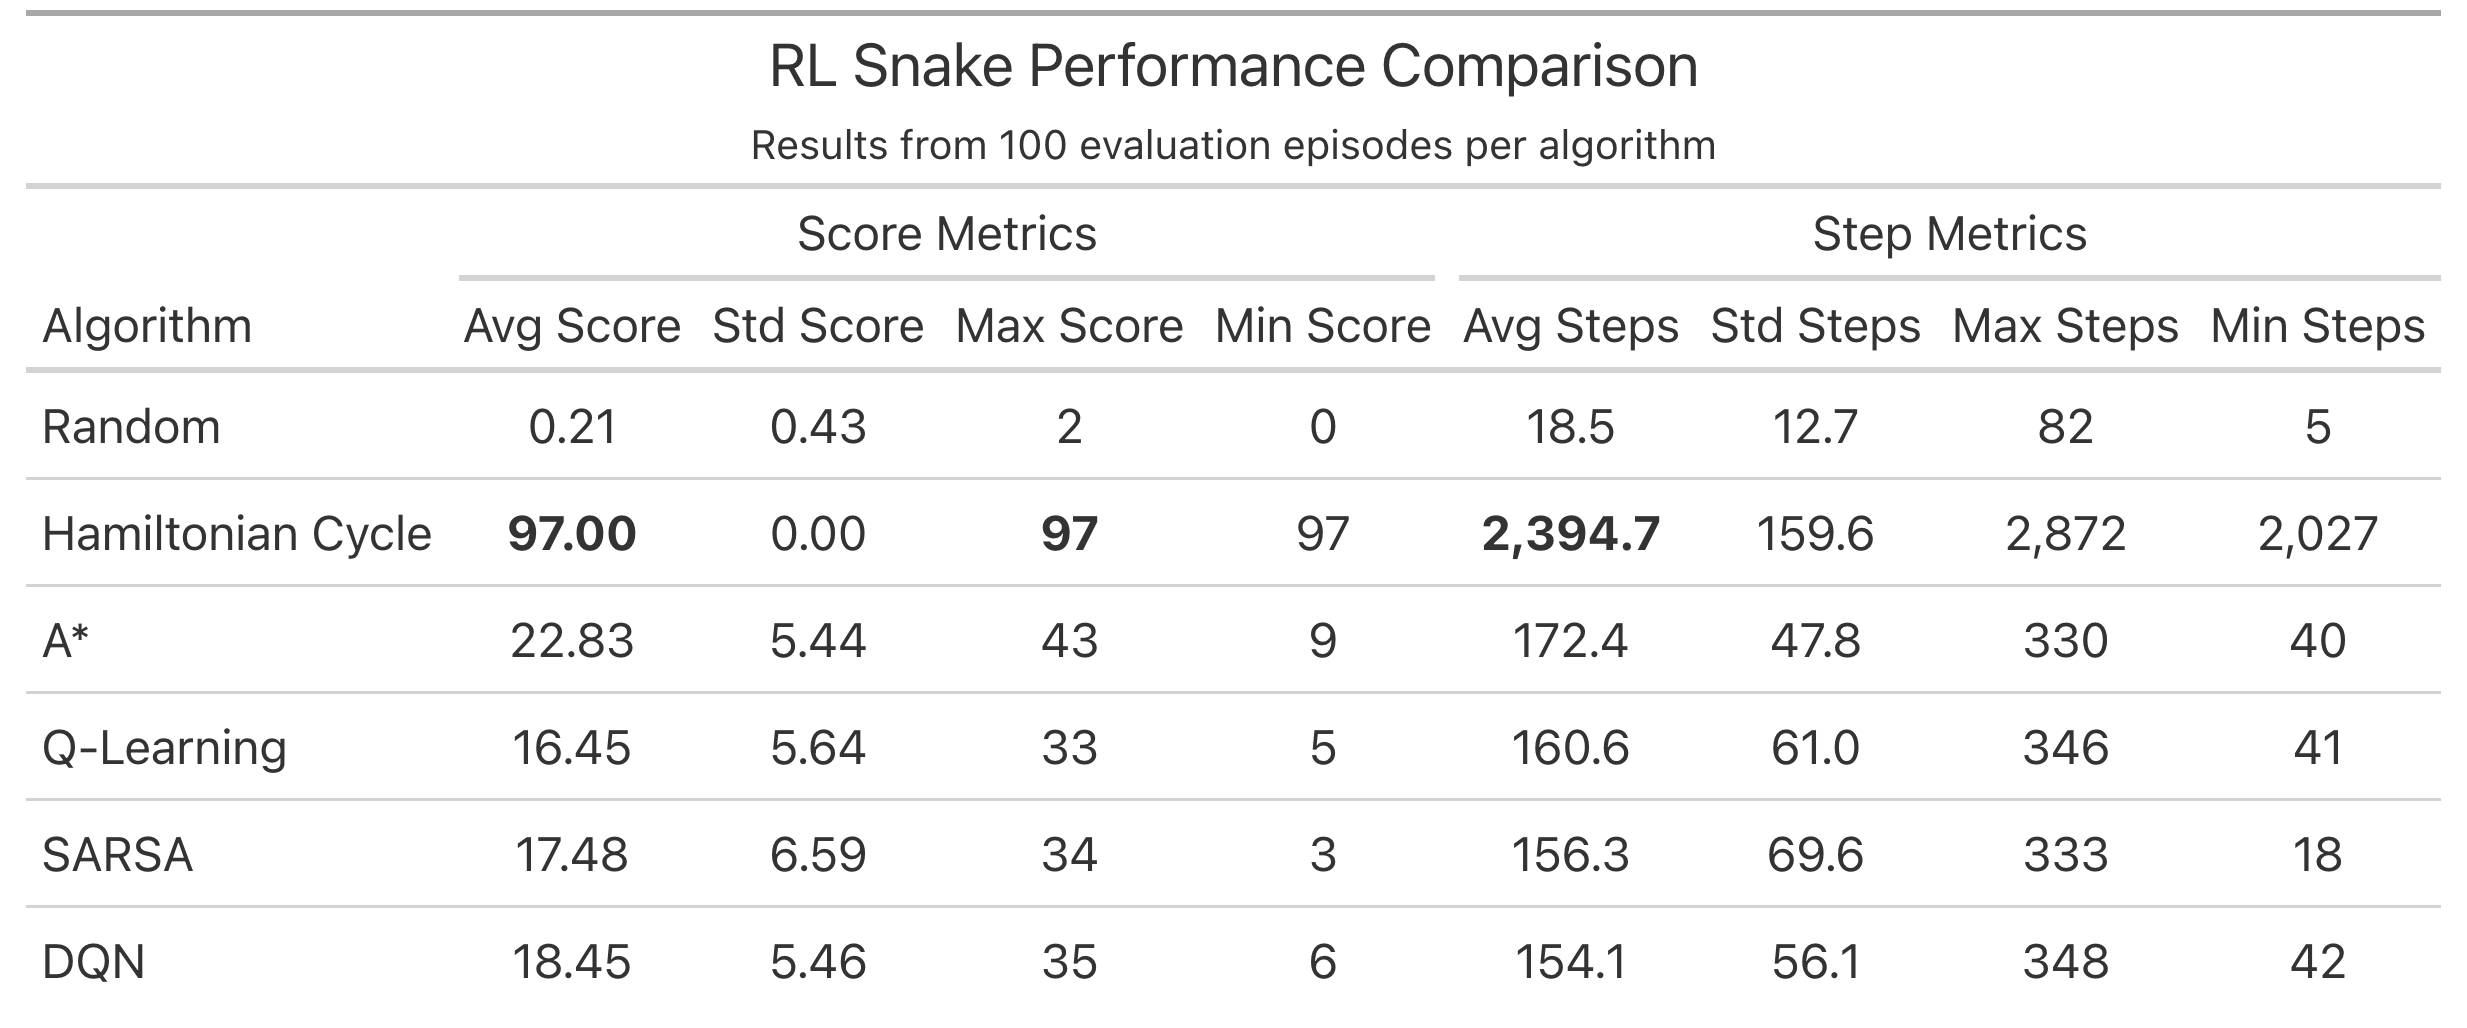
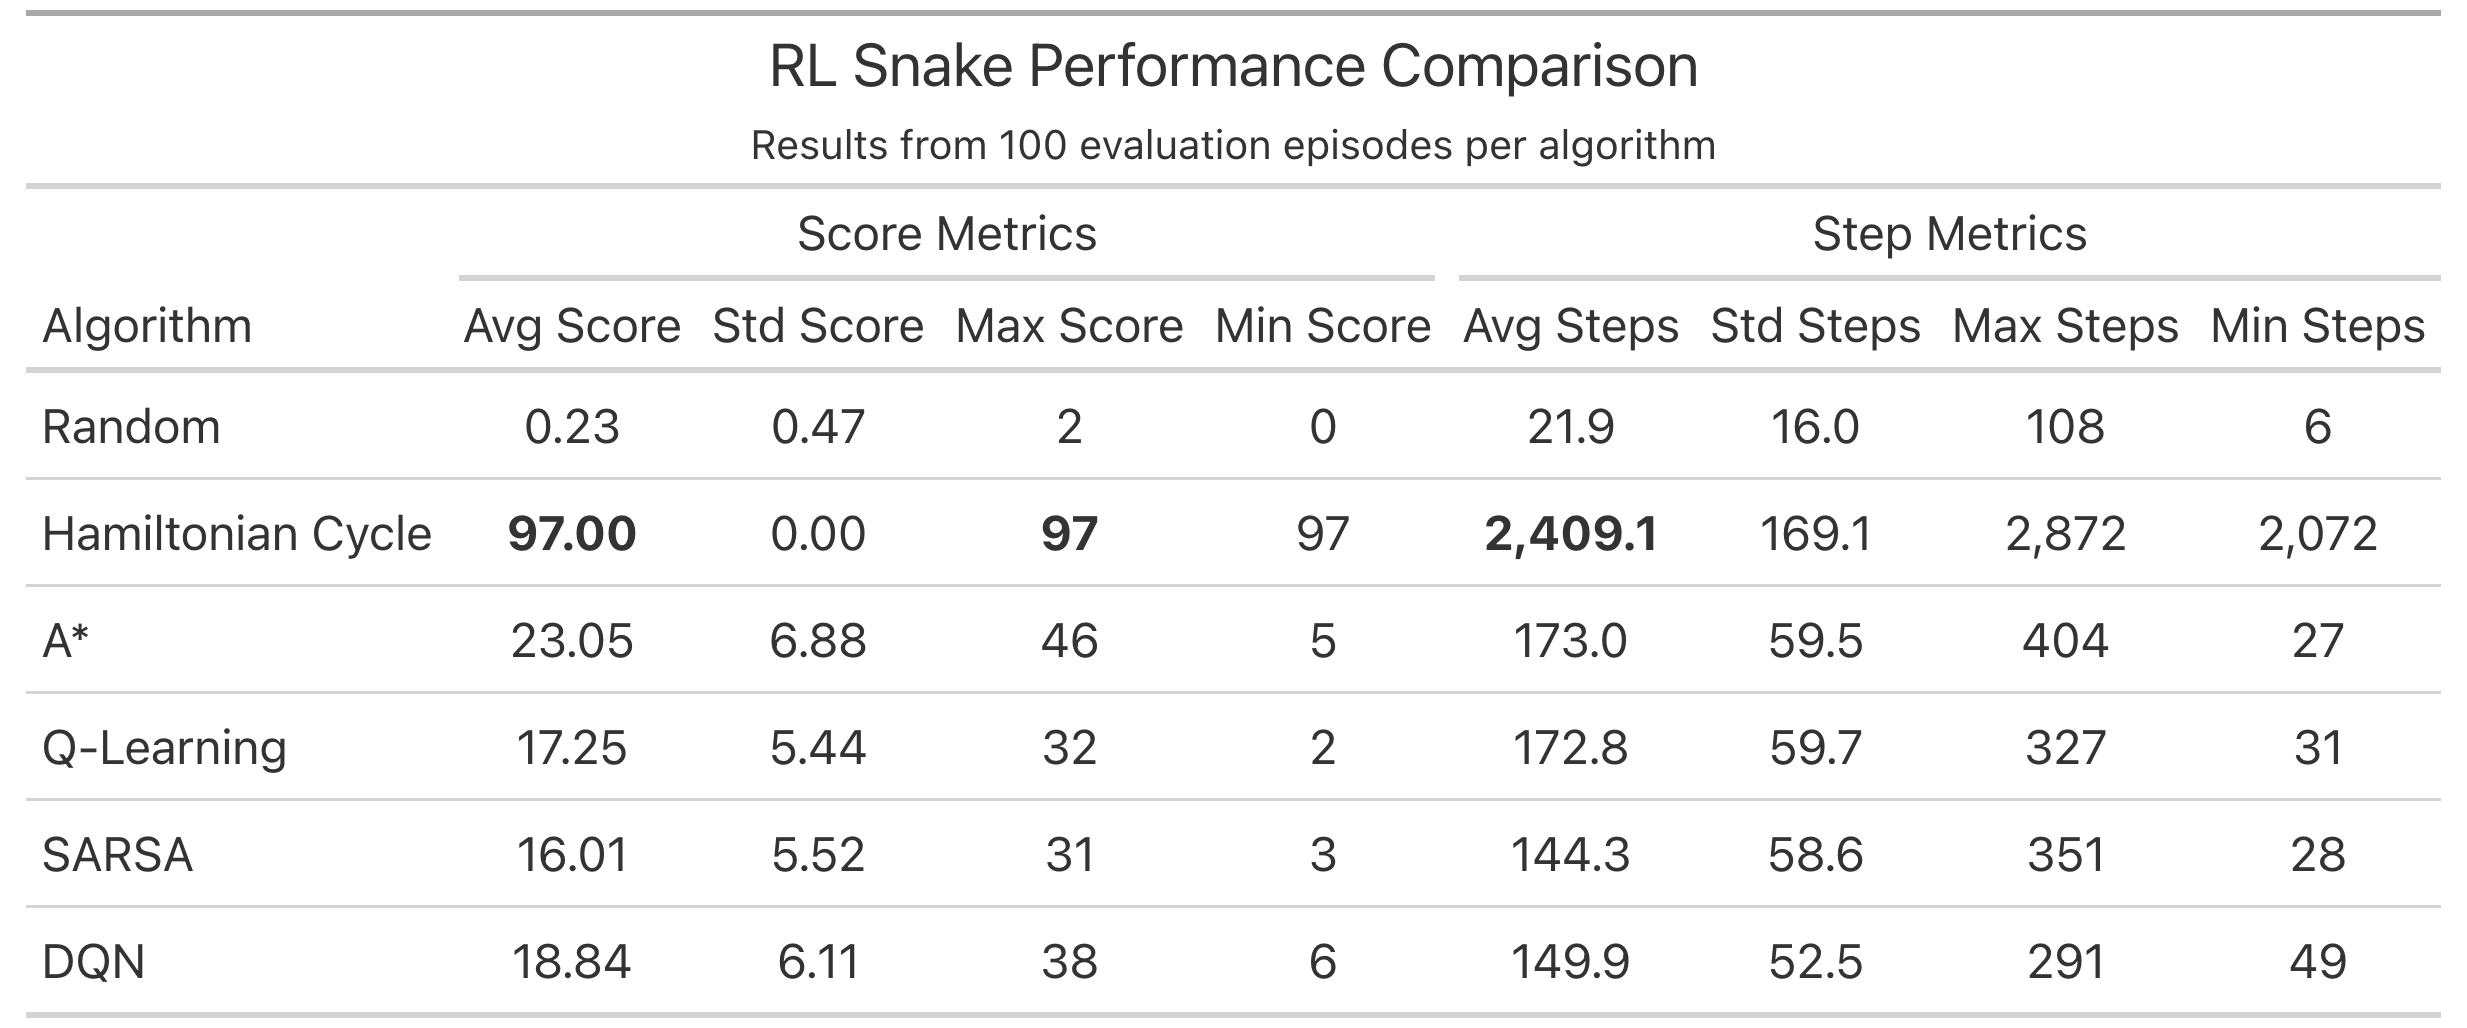
Fixed performance code.

diff --git a/scripts/performance.py b/scripts/performance.py
@@ -70,56 +70,62 @@ def main():
     print("RL Snake Performance Comparison")
     print("=" * 70)
 
-    # Initialize environment
-    env = SnakeEnv(
-        grid_size=config.environment.grid_size,
-        max_steps=3000,
-        seed=config.random_seed,
-    )
+    # Environment configuration (same for all agents)
+    grid_size = config.environment.grid_size
+    max_steps = 3000
+    seed = config.random_seed
 
     num_episodes = 100
     results = {}
 
     # Evaluate Random Agent (baseline)
     print("\n[1/6] Evaluating Random Agent...")
+    env_random = SnakeEnv(grid_size=grid_size, max_steps=max_steps, seed=seed)
     random_agent = RandomAgent(action_space=3)
-    results["Random"] = evaluate_agent(random_agent, env, num_episodes)
+    results["Random"] = evaluate_agent(random_agent, env_random, num_episodes)
 
     # Evaluate Hamiltonian Cycle Agent
     print("\n[2/6] Evaluating Hamiltonian Cycle Agent...")
-    hamiltonian_agent = HamiltonianCycleAgent(env=env)
-    results["Hamiltonian Cycle"] = evaluate_agent(hamiltonian_agent, env, num_episodes)
+    env_hamiltonian = SnakeEnv(grid_size=grid_size, max_steps=max_steps, seed=seed)
+    hamiltonian_agent = HamiltonianCycleAgent(env=env_hamiltonian)
+    results["Hamiltonian Cycle"] = evaluate_agent(
+        hamiltonian_agent, env_hamiltonian, num_episodes
+    )
 
     # Evaluate A* Agent
     print("\n[3/6] Evaluating A* Agent...")
-    astar_agent = AStarAgent(env=env)
-    results["A*"] = evaluate_agent(astar_agent, env, num_episodes)
+    env_astar = SnakeEnv(grid_size=grid_size, max_steps=max_steps, seed=seed)
+    astar_agent = AStarAgent(env=env_astar)
+    results["A*"] = evaluate_agent(astar_agent, env_astar, num_episodes)
 
     # Evaluate Q-Learning
     print("\n[4/6] Evaluating Q-Learning Agent...")
+    env_qlearning = SnakeEnv(grid_size=grid_size, max_steps=max_steps, seed=seed)
     q_agent = QLearningAgent(
-        env=env,
+        env=env_qlearning,
         epsilon=0.0,
         seed=config.random_seed,
     )
     q_agent.load("models/q_table_final.pkl")
-    results["Q-Learning"] = evaluate_agent(q_agent, env, num_episodes)
+    results["Q-Learning"] = evaluate_agent(q_agent, env_qlearning, num_episodes)
 
     # Evaluate SARSA
     print("\n[5/6] Evaluating SARSA Agent...")
+    env_sarsa = SnakeEnv(grid_size=grid_size, max_steps=max_steps, seed=seed)
     sarsa_agent = SARSAAgent(
-        env=env,
+        env=env_sarsa,
         epsilon=0.0,
         seed=config.random_seed,
     )
     sarsa_agent.load("models/sarsa_final.pkl")
-    results["SARSA"] = evaluate_agent(sarsa_agent, env, num_episodes)
+    results["SARSA"] = evaluate_agent(sarsa_agent, env_sarsa, num_episodes)
 
     # Evaluate DQN
     print("\n[6/6] Evaluating DQN Agent...")
-    dqn_agent = DQNAgent(env=env)
+    env_dqn = SnakeEnv(grid_size=grid_size, max_steps=max_steps, seed=seed)
+    dqn_agent = DQNAgent(env=env_dqn)
     dqn_agent.load("models/dqn_final.pt")
-    results["DQN"] = evaluate_agent(dqn_agent, env, num_episodes)
+    results["DQN"] = evaluate_agent(dqn_agent, env_dqn, num_episodes)
 
     # Display results
     print("\n" + "=" * 70)
